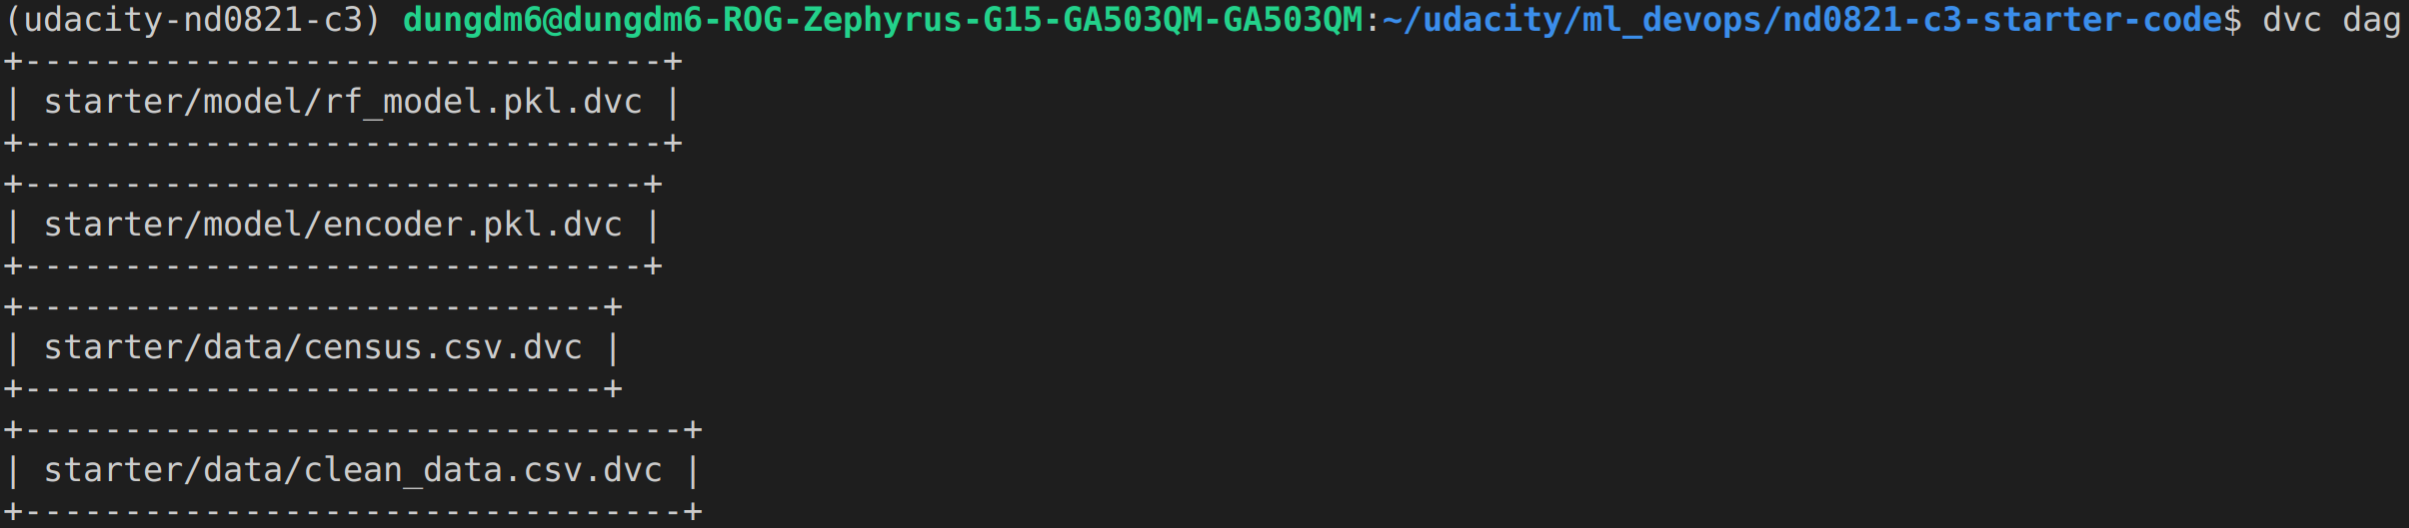
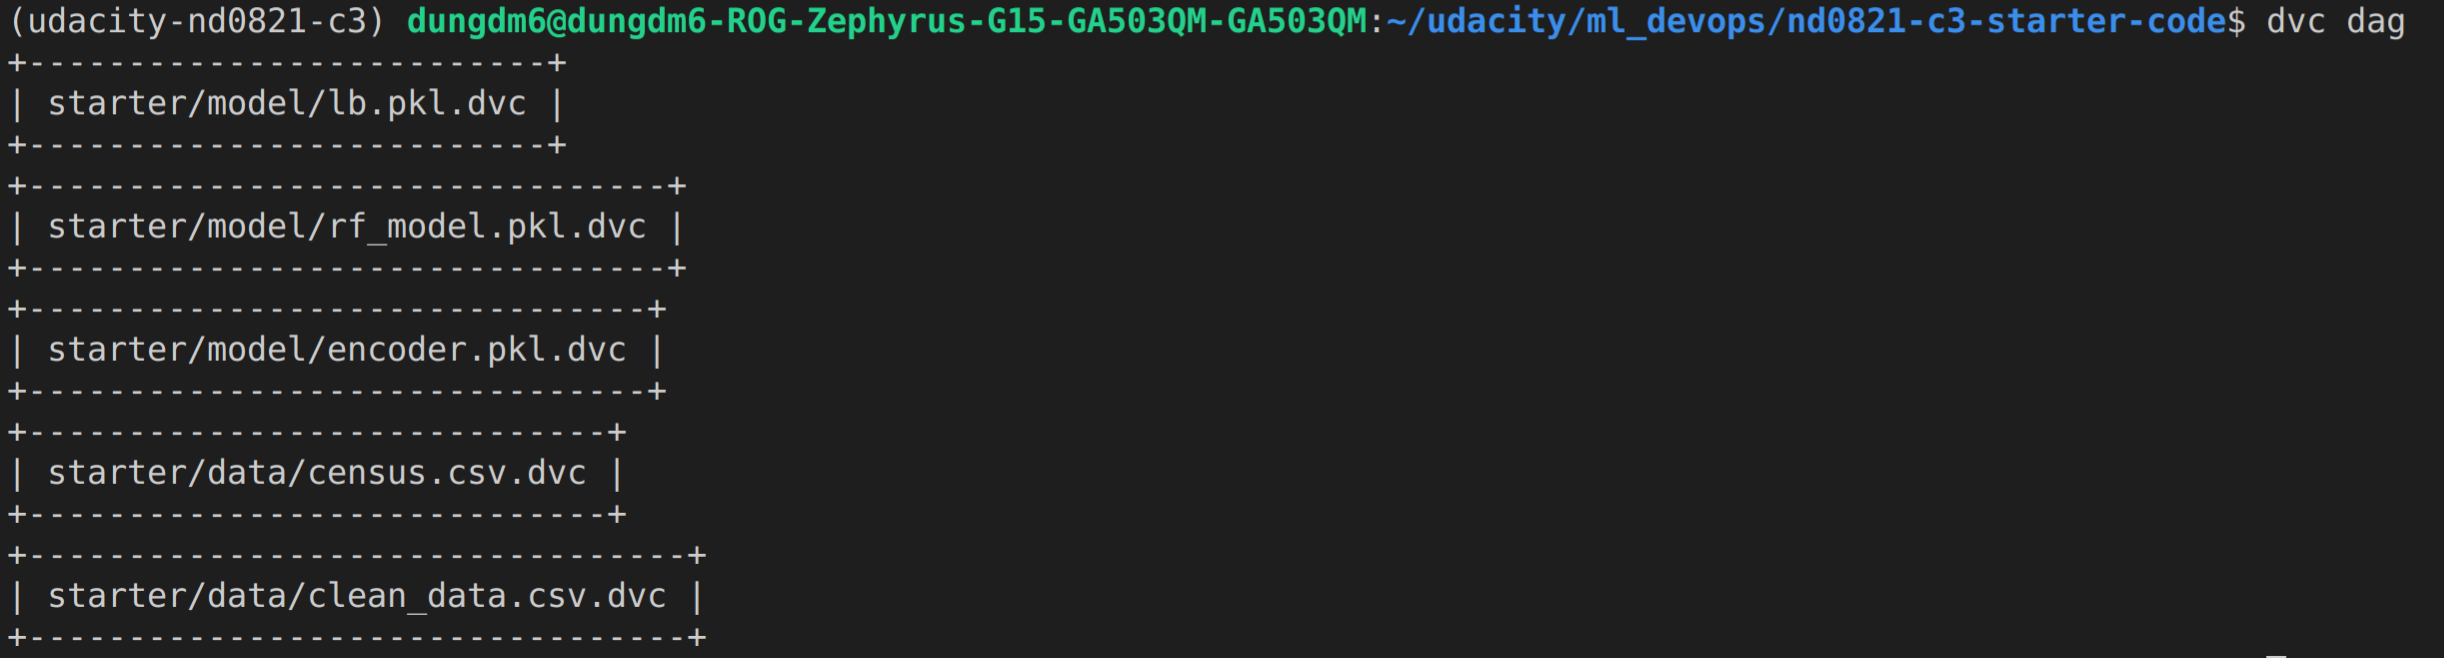
Complete API and test

diff --git a/starter/main.py b/starter/main.py
@@ -1,1 +1,76 @@
 # Put the code for your API here.
+import os
+import pickle
+import pandas as pd
+from fastapi import FastAPI
+from pydantic import BaseModel, Field
+from starter.ml.data import process_data
+from starter.ml.model import inference
+
+if "DYNO" in os.environ and os.path.isdir(".dvc"):
+    os.system("dvc config core.no_scm true")
+    if os.system("dvc pull") != 0:
+        exit("dvc pull failed")
+    os.system("rm -r .dvc .apt/usr/lib/dvc")
+
+
+app = FastAPI()
+file_dir = os.path.dirname(__file__)
+model_path = os.path.join(file_dir, 'model/rf_model.pkl')
+encoder_path = os.path.join(file_dir, 'model/encoder.pkl')
+lb_path = os.path.join(file_dir, 'model/lb.pkl')
+model = pickle.load(open(model_path, 'rb'))
+encoder = pickle.load(open(encoder_path, 'rb'))
+lb = pickle.load(open(lb_path, 'rb'))
+
+
+class Sample(BaseModel):
+    # Using the first row of census.csv as sample
+    age: int = Field(None, example=39)
+    workclass: str = Field(None, example='State-gov')
+    fnlgt: int = Field(None, example=77516)
+    education: str = Field(None, example='Bachelors')
+    education_num: int = Field(None, example=13)
+    marital_status: str = Field(None, example='Never-married')
+    occupation: str = Field(None, example='Adm-clerical')
+    relationship: str = Field(None, example='Not-in-family')
+    race: str = Field(None, example='White')
+    sex: str = Field(None, example='Female')
+    capital_gain: int = Field(None, example=2174)
+    capital_loss: int = Field(None, example=0)
+    hours_per_week: int = Field(None, example=40)
+    native_country: str = Field(None, example='United-States')
+
+
+@app.get("/")
+async def hello_world():
+  return "Hello World!"
+
+
+@app.post("/")
+async def predict(sample: Sample):
+    sample = {key.replace('_', '-'): [value] for key, value in sample.__dict__.items()}
+    data = pd.DataFrame.from_dict(sample)
+
+    cat_features = [
+        "workclass",
+        "education",
+        "marital-status",
+        "occupation",
+        "relationship",
+        "race",
+        "sex",
+        "native-country",
+    ]
+
+    X, _, _, _ = process_data(
+        data,
+        categorical_features=cat_features,
+        label=None,
+        training=False,
+        encoder=encoder,
+        lb=lb
+    )
+
+    pred = inference(model, X)[0]
+    return '<=50K' if pred == 0 else '>50K'

diff --git a/starter/starter/slices.py b/starter/starter/slices.py
@@ -1,9 +1,5 @@
-import os
 import sys
-
-file_dir = os.path.dirname(__file__)
-sys.path.insert(0, file_dir)
-
+import os
 import pickle
 import pandas as pd
 from ml.data import process_data
@@ -27,22 +23,26 @@ def slice_metrics(model, data, slice_feature, categorical_features=[]):
     -------
     None
     """
-    print("Performance on slices of data based on", slice_feature)
-    print("*****************************************************")
-    X, y, _, _ = process_data(
-        data, categorical_features=categorical_features, label="salary", training=True
-    )
-    preds = inference(model, X)
+    original_stdout = sys.stdout
+    with open(os.path.join(os.path.dirname(__file__), "slice_output.txt"), "w") as f:
+        sys.stdout = f
+        print("Performance on slices of data based on", slice_feature)
+        print("*****************************************************")
+        X, y, _, _ = process_data(
+            data, categorical_features=categorical_features, label="salary", training=True
+        )
+        preds = inference(model, X)
 
-    for slice_value in data[slice_feature].unique():
-        slice_index = data.index[data[slice_feature] == slice_value]
-        
-        print(slice_feature, '=', slice_value)
-        print('data size:', len(slice_index))
-        print('precision: {}, recall: {}, fbeta: {}'.format(
-            *compute_model_metrics(y[slice_index], preds[slice_index])
-        ))
-        print('-------------------------------------------------')
+        for slice_value in data[slice_feature].unique():
+            slice_index = data.index[data[slice_feature] == slice_value]
+            
+            print(slice_feature, '=', slice_value)
+            print('data size:', len(slice_index))
+            print('precision: {}, recall: {}, fbeta: {}'.format(
+                *compute_model_metrics(y[slice_index], preds[slice_index])
+            ))
+            print('-------------------------------------------------')
+        sys.stdout = original_stdout
 
 
 if __name__ == '__main__':

diff --git a/starter/test_main.py b/starter/test_main.py
@@ -1,0 +1,57 @@
+import sys
+
+sys.path.insert(0, 'starter')
+
+import json
+from fastapi.testclient import TestClient
+from main import app
+
+client = TestClient(app)
+
+
+def test_get_root():
+    r = client.get("/")
+    assert r.status_code == 200
+    assert r.json() == "Hello World!"
+
+def test_post_sample_1():
+    data = {
+        "age": 39,
+        "workclass": "State-gov",
+        "fnlgt": 77516,
+        "education": "Bachelors",
+        "education_num": 13,
+        "marital_status": "Never-married",
+        "occupation": "Adm-clerical",
+        "relationship": "Not-in-family",
+        "race": "White",
+        "sex": "Female",
+        "capital_gain": 2174,
+        "capital_loss": 0,
+        "hours_per_week": 40,
+        "native_country": "United-States"
+    }
+    r = client.post("/", data=json.dumps(data))
+    assert r.status_code == 200
+    assert r.json() == "<=50K"
+
+def test_post_sample_2():
+    data = {
+        "age": 30,
+        "workclass": "State-gov",
+        "fnlgt": 141297,
+        "education": "Bachelors",
+        "education_num": 13,
+        "marital_status": "Married-civ-spouse",
+        "occupation": "Prof-specialty",
+        "relationship": "Husband",
+        "race": "Asian-Pac-Islander",
+        "sex": "Male",
+        "capital_gain": 0,
+        "capital_loss": 0,
+        "hours_per_week": 40,
+        "native_country": "India"
+    }
+    r = client.post("/", data=json.dumps(data))
+    assert r.status_code == 200
+    assert r.json() == ">50K"

diff --git a/starter/starter/train_model.py b/starter/starter/train_model.py
@@ -38,6 +38,9 @@ pickle.dump(rf_model, open(model_path, 'wb'))
 encoder_path = os.path.join(file_dir, '../model/encoder.pkl')
 pickle.dump(encoder, open(encoder_path, 'wb'))
 
+lb_path = os.path.join(file_dir, '../model/lb.pkl')
+pickle.dump(lb, open(lb_path, 'wb'))
+
 # Evaluation
 X_test, y_test, encoder, lb = process_data(
     test,

diff --git a/starter/model_card_template.md b/starter/model_card_template.md
@@ -25,9 +25,9 @@ The original dataset is first preprocessed and then split into training and eval
 ## Metrics
 _Please include the metrics used and your model's performance on those metrics._
 3 metrics were used for evaluating the model's performance: precision, recall, and fbeta. The model achieves the following result:
-* precision: 0.9516556291390729
-* recall: 0.935546875
-* fbeta: 0.9435325016414969
+* precision: 0.7482889733840304
+* recall: 0.6227848101265823
+* fbeta: 0.6797927461139895
 
 ## Ethical Considerations
 The misuse of these census information can cause consequences to the lives of people surveyed and (possibly) other people in some related populations

diff --git a/README.md b/README.md
@@ -1,3 +1,16 @@
+# NOTE ON RUNNING THE COMMANDS
+```bash
+# Run .py files from the project directory
+python starter/sanitycheck.py
+python starter/starter/train_model.py
+python starter/starter/slices.py
+# But start the uvicorn from starter directory
+cd starter
+uvicorn main:app --host 0.0.0.0 --port 8000 --reload
+```
+
+---
+
 Working in a command line environment is recommended for ease of use with git and dvc. If on Windows, WSL1 or 2 is recommended.
 
 # Environment Set up

diff --git a/starter/README.md b/starter/README.md
@@ -1,3 +1,16 @@
+# NOTE ON RUNNING THE COMMANDS
+```bash
+# Run .py files from the project directory
+python starter/sanitycheck.py
+python starter/starter/train_model.py
+python starter/starter/slices.py
+# But start the uvicorn from starter directory
+cd starter
+uvicorn main:app --host 0.0.0.0 --port 8000 --reload
+```
+
+---
+
 Working in a command line environment is recommended for ease of use with git and dvc. If on Windows, WSL1 or 2 is recommended.
 
 # Environment Set up
